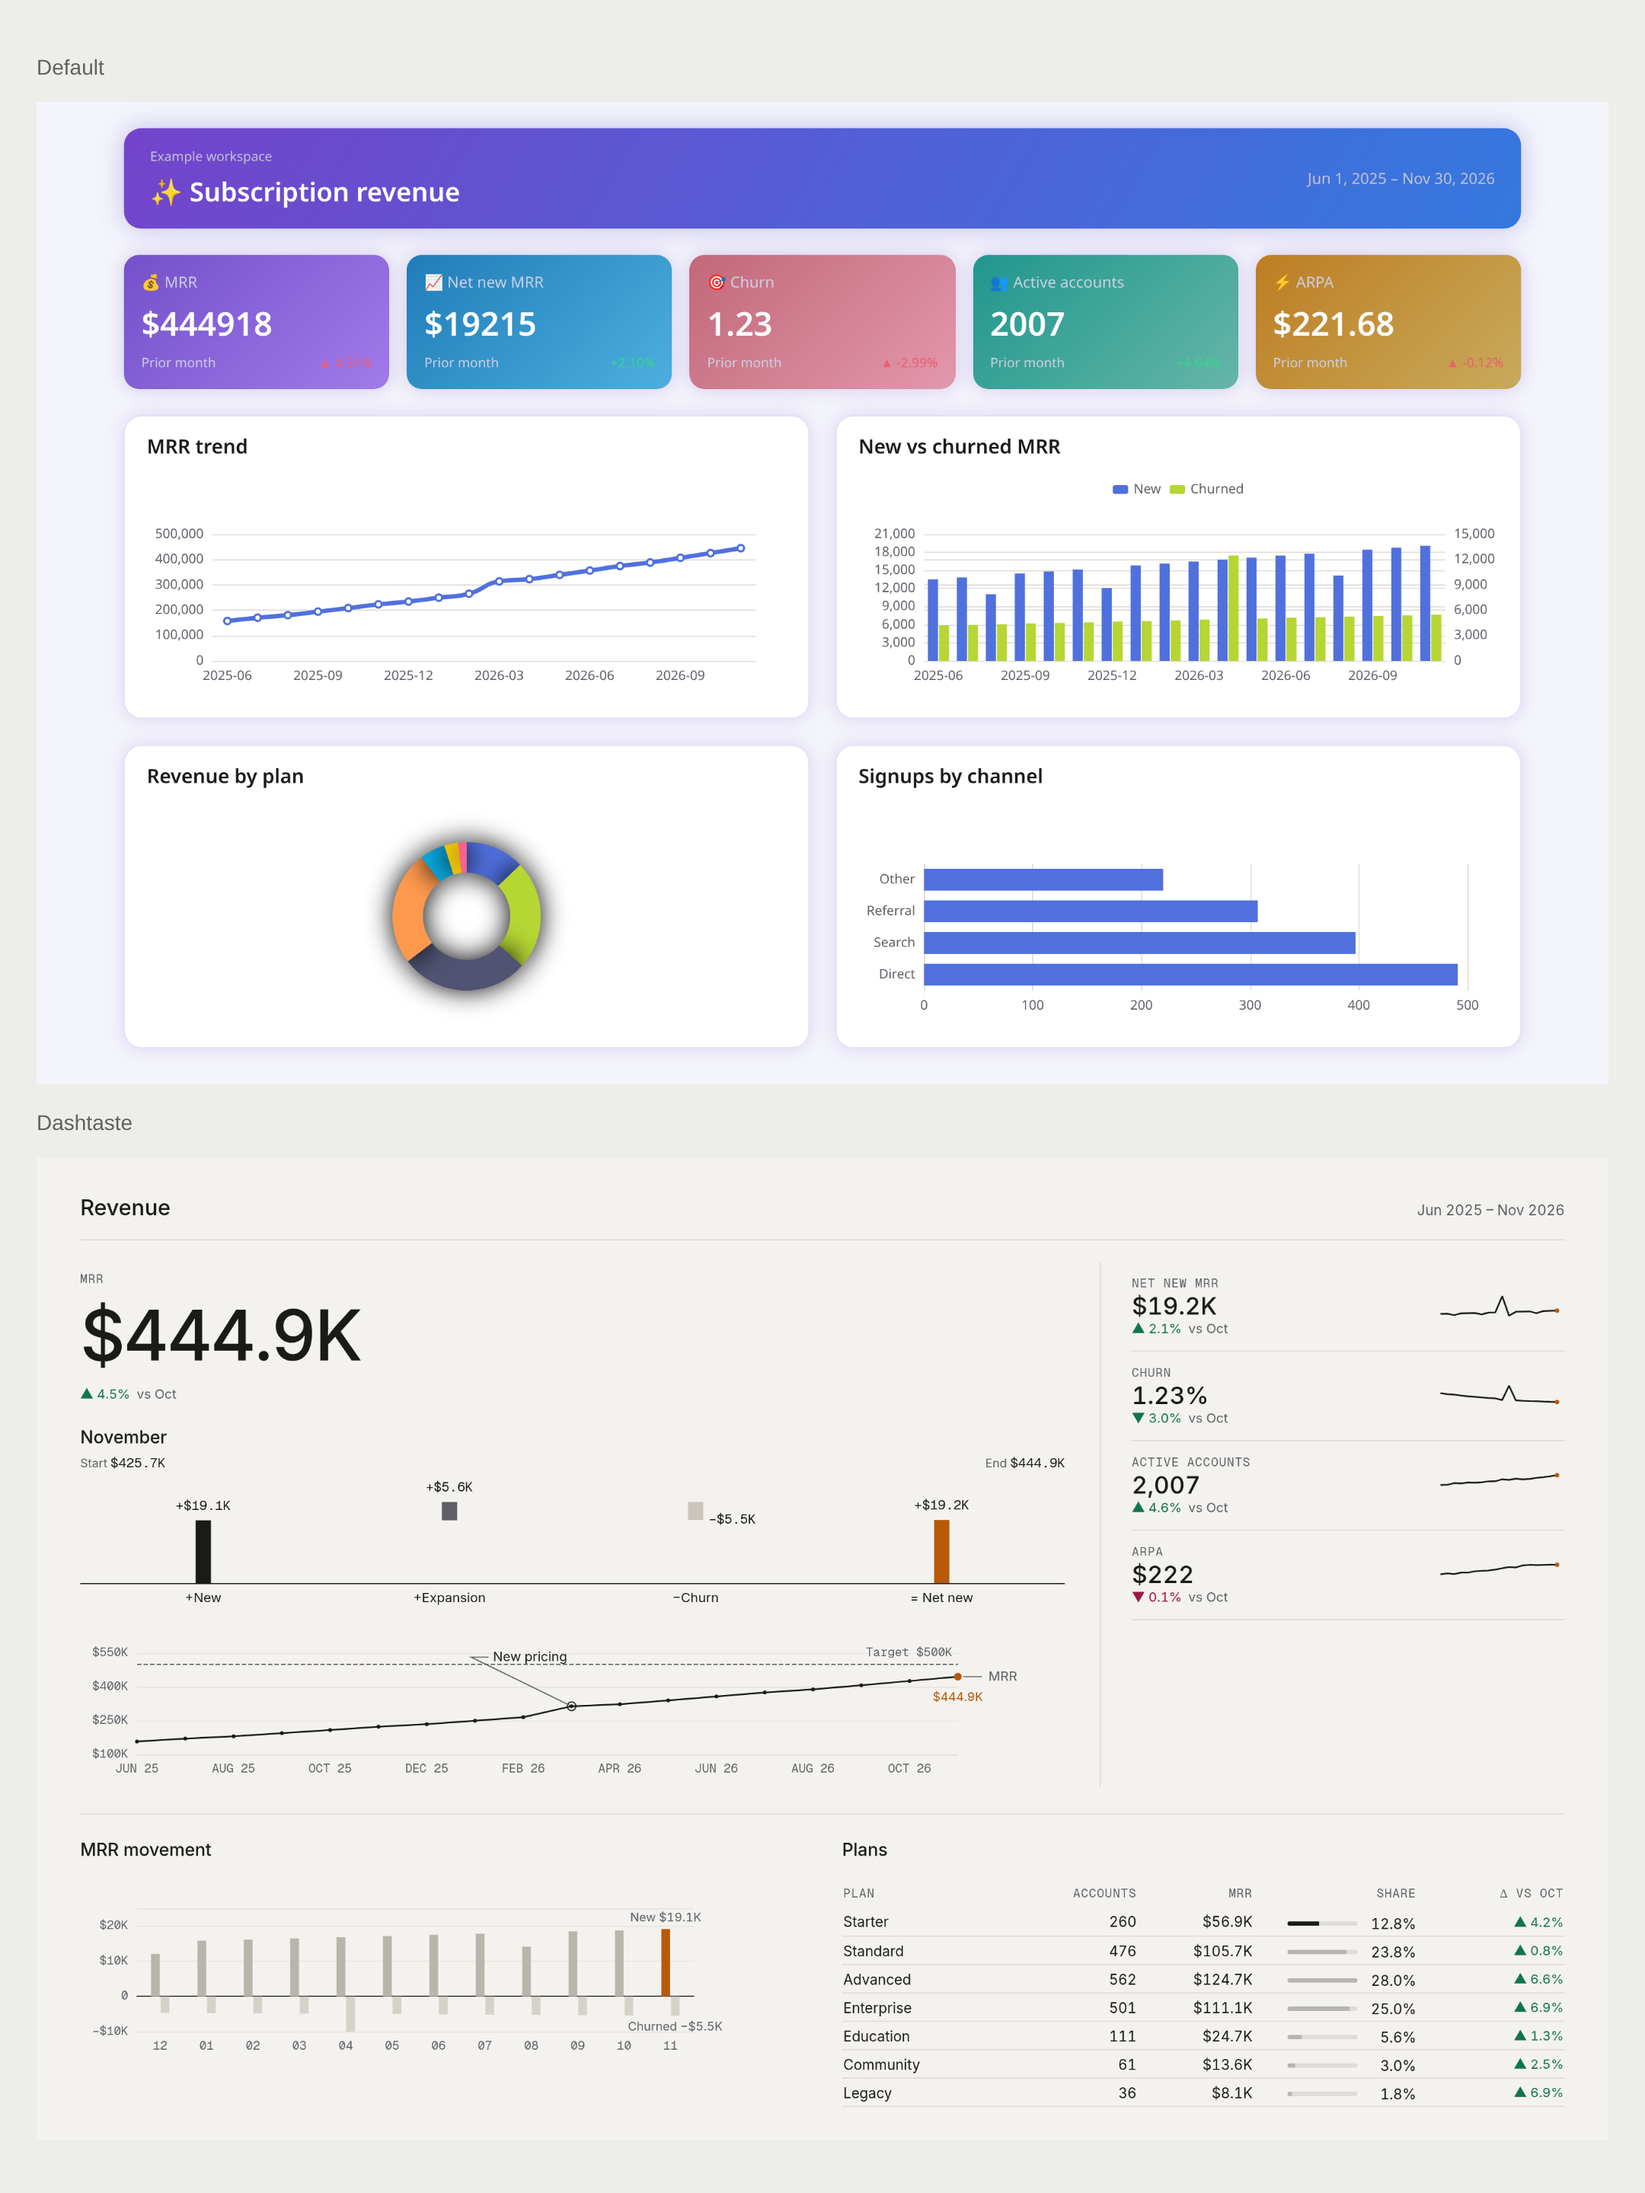
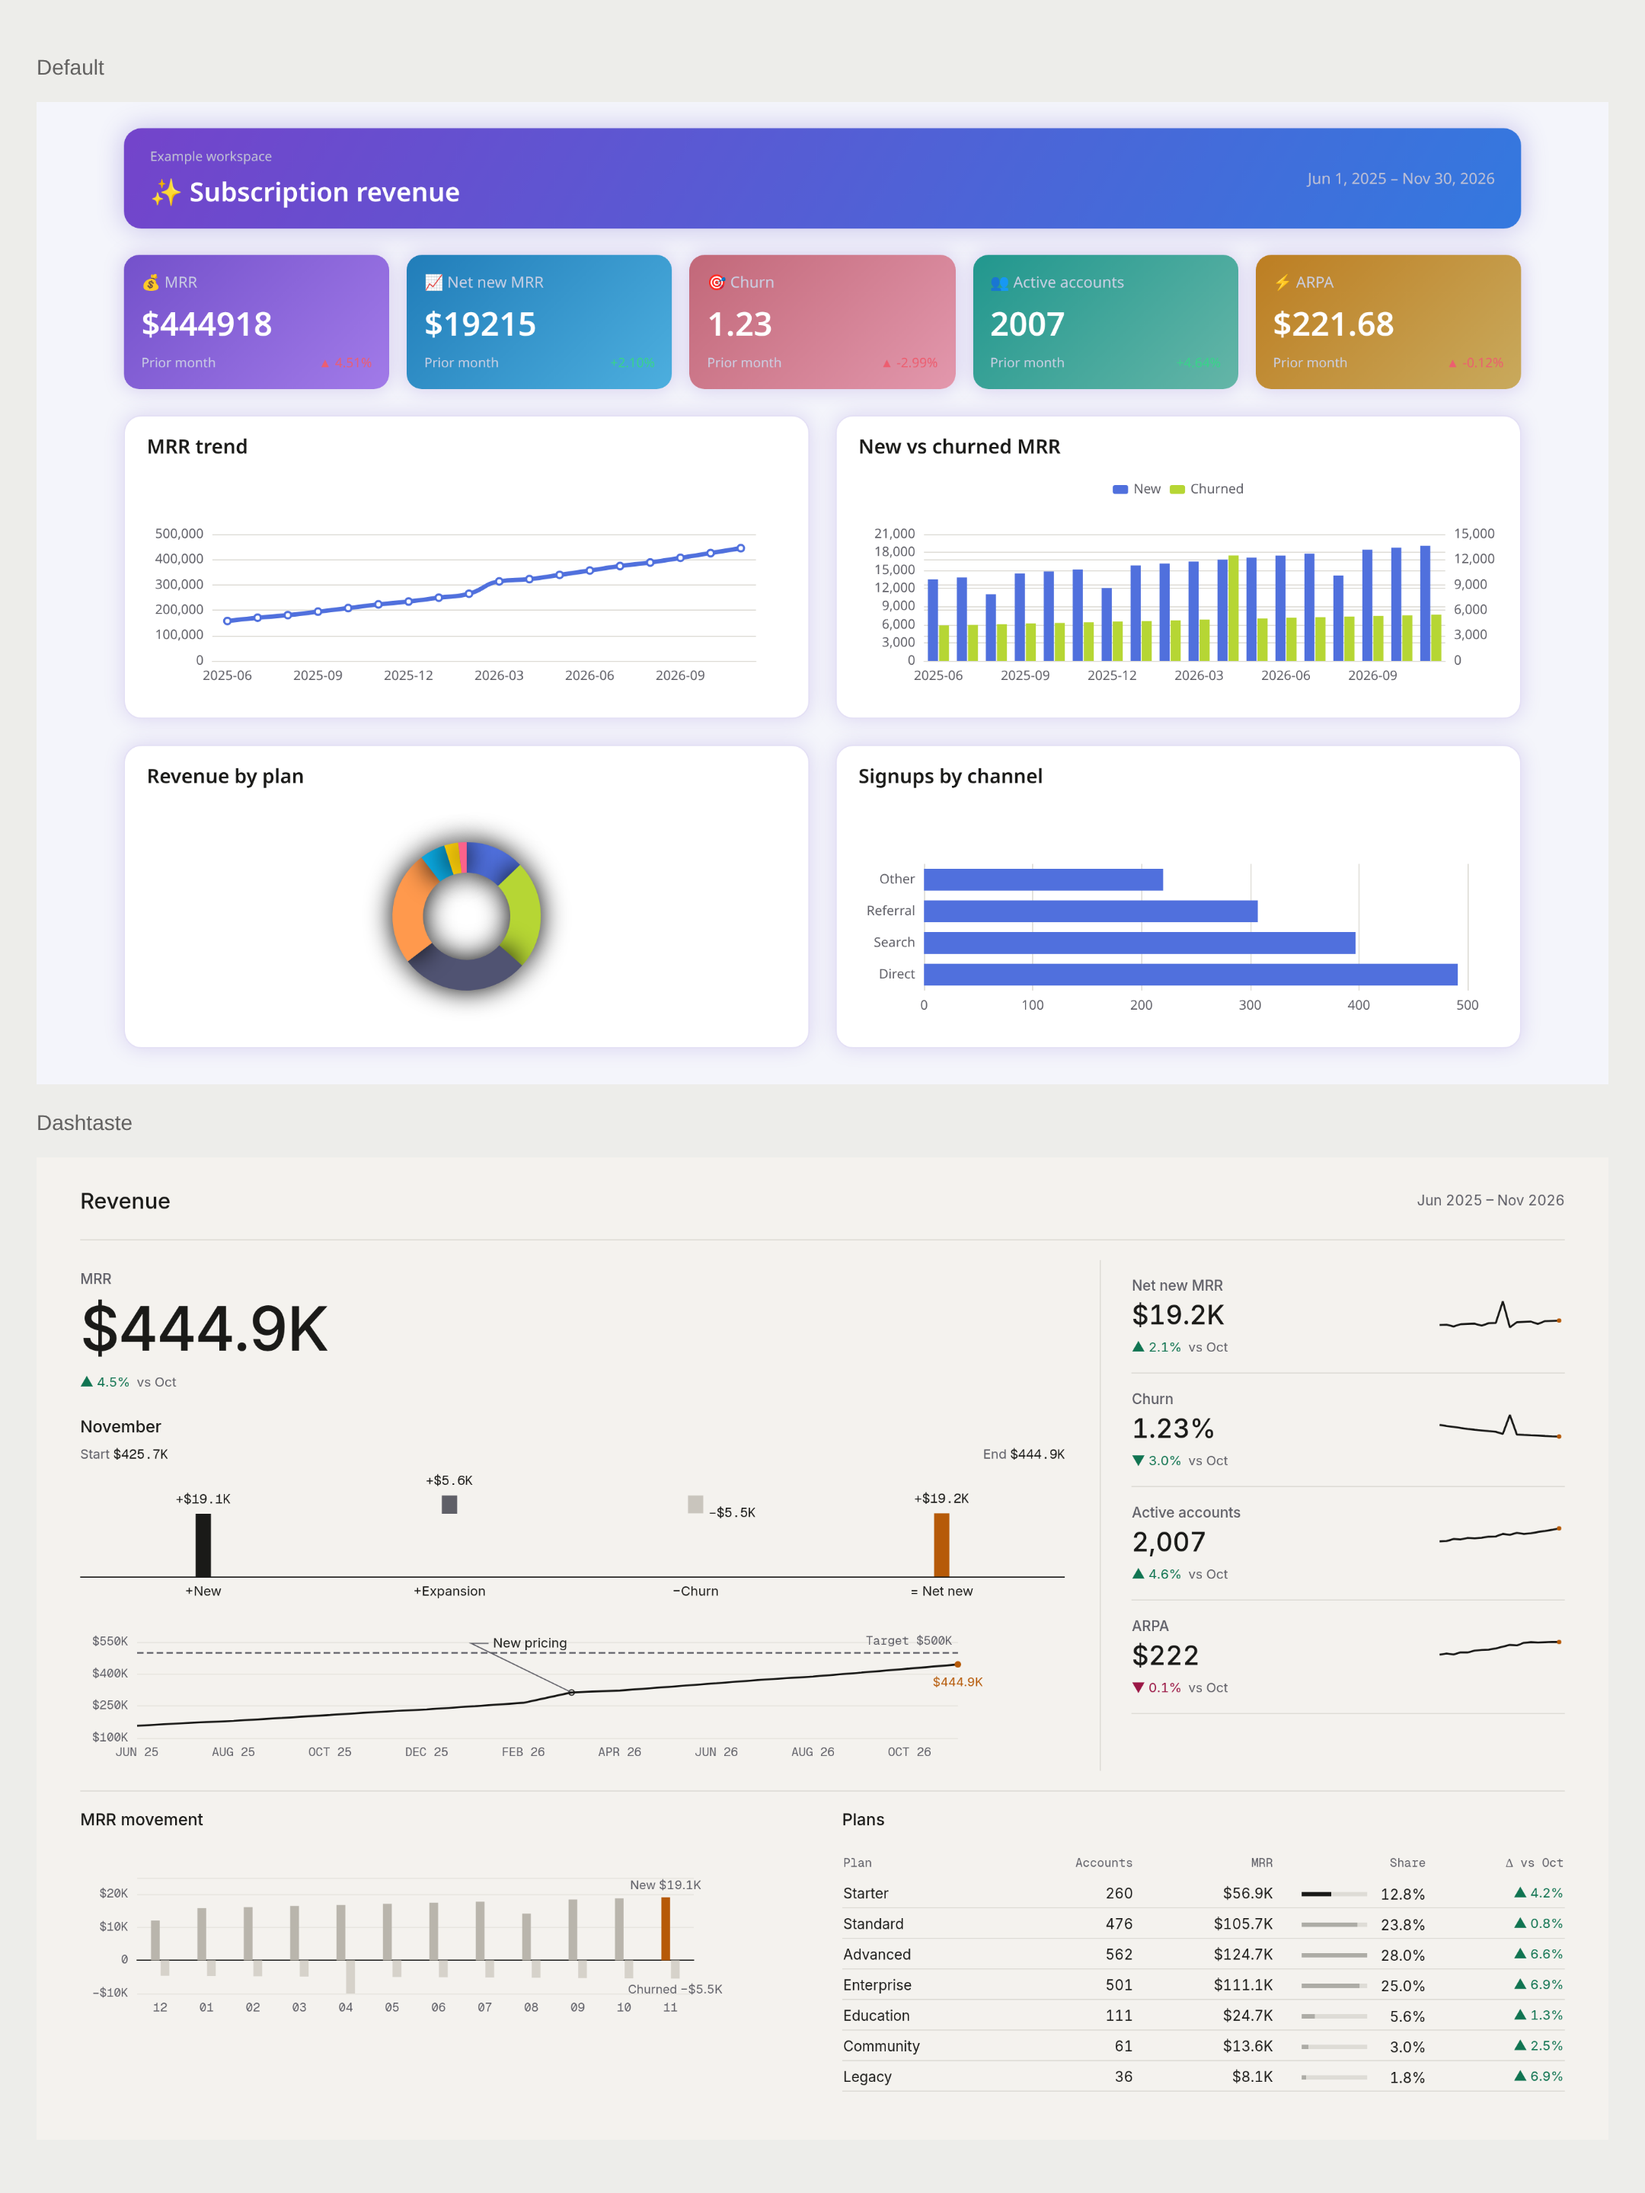
docs+gallery: polish after boards and list DT024–DT028
Editorial after polish (warm/dark paper, thin lines, one warm accent,
leader lines) and extend the README rules table through hero-metric.

diff --git a/README.md b/README.md
@@ -67,31 +67,36 @@ Both packs specify spacing, typography, chart defaults, and number formatting. L
 
 [Reasons, triggers, and fixes](docs/rules.md) for every rule:
 
-| ID    | Name                 |
-| ----- | -------------------- |
-| DT001 | default-palette      |
-| DT002 | rainbow-palette      |
-| DT003 | smooth-line          |
-| DT004 | symbols-everywhere   |
-| DT005 | pie-slices           |
-| DT006 | pie-overuse          |
-| DT007 | three-d              |
-| DT008 | dual-axis            |
-| DT009 | missing-unit         |
-| DT010 | bar-baseline         |
-| DT011 | raw-large-numbers    |
-| DT012 | unit-system          |
-| DT013 | delta-convention     |
-| DT014 | delta-colour-only    |
-| DT015 | low-contrast-text    |
-| DT016 | thin-line-contrast   |
-| DT017 | gradient-decoration  |
-| DT018 | glow                 |
-| DT019 | kpi-overload         |
-| DT020 | kpi-rainbow          |
-| DT021 | emoji-icons          |
-| DT022 | cjk-min-size         |
-| DT023 | legend-single-series |
+| ID    | Name                    |
+| ----- | ----------------------- |
+| DT001 | default-palette         |
+| DT002 | rainbow-palette         |
+| DT003 | smooth-line             |
+| DT004 | symbols-everywhere      |
+| DT005 | pie-slices              |
+| DT006 | pie-overuse             |
+| DT007 | three-d                 |
+| DT008 | dual-axis               |
+| DT009 | missing-unit            |
+| DT010 | bar-baseline            |
+| DT011 | raw-large-numbers       |
+| DT012 | unit-system             |
+| DT013 | delta-convention        |
+| DT014 | delta-colour-only       |
+| DT015 | low-contrast-text       |
+| DT016 | thin-line-contrast      |
+| DT017 | gradient-decoration     |
+| DT018 | glow                    |
+| DT019 | kpi-overload            |
+| DT020 | kpi-rainbow             |
+| DT021 | emoji-icons             |
+| DT022 | cjk-min-size            |
+| DT023 | legend-single-series    |
+| DT024 | bar-width               |
+| DT025 | legend-not-direct-label |
+| DT026 | line-weight             |
+| DT027 | tabular-numerals        |
+| DT028 | hero-metric             |
 
 ## Gallery
 
